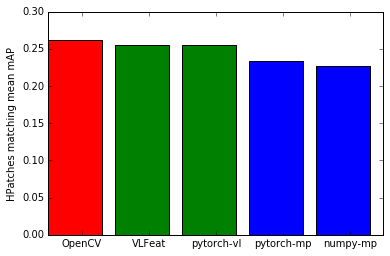
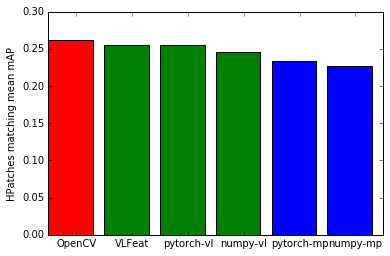
added numpy-sift results

Changed region(s): [[0.1231, 0.1562, 0.9846, 0.9688], [0.9231, 0.25, 0.9538, 0.9062]]

diff --git a/README.md b/README.md
@@ -26,28 +26,35 @@ Results:
 
 
 ```
-VLFeat-SIFT - mAP 
-    Easy      Hard      Tough      mean
---------  --------  ---------  --------
-0.466584  0.203966  0.0935743  0.254708
-
-
 OPENCV-SIFT - mAP 
    Easy     Hard      Tough     mean
 -------  -------  ---------  -------
 0.47788  0.20997  0.0967711  0.26154
 
+VLFeat-SIFT - mAP 
+    Easy      Hard      Tough      mean
+--------  --------  ---------  --------
+0.466584  0.203966  0.0935743  0.254708
+
+PYTORCH-SIFT-VLFEAT-65 - mAP 
+    Easy      Hard      Tough      mean
+--------  --------  ---------  --------
+0.472563  0.202458  0.0910371  0.255353
+
+NUMPY-SIFT-VLFEAT-65 - mAP 
+    Easy      Hard      Tough      mean
+--------  --------  ---------  --------
+0.449431  0.197918  0.0905395  0.245963
 
 PYTORCH-SIFT-MP-65 - mAP 
     Easy      Hard      Tough      mean
 --------  --------  ---------  --------
 0.430887  0.184834  0.0832707  0.232997
 
-
-PYTORCH-SIFT-VLFEAT-65 - mAP 
-    Easy      Hard      Tough      mean
---------  --------  ---------  --------
-0.472563  0.202458  0.0910371  0.255353
+NUMPY-SIFT-MP-65 - mAP 
+    Easy     Hard      Tough      mean
+--------  -------  ---------  --------
+0.417296  0.18114  0.0820582  0.226832
 
 
 ```
